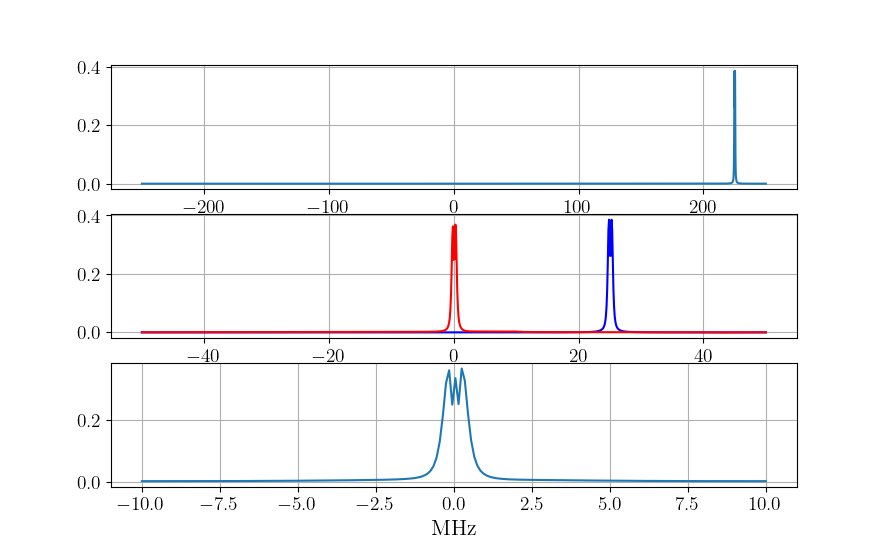
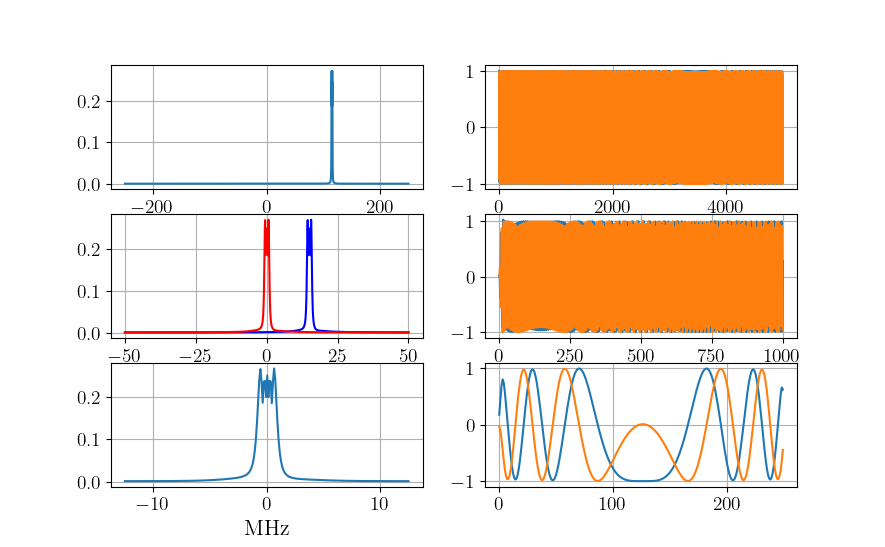
sols lab2

diff --git a/Module 0/lab2.md b/Module 0/lab2.md
@@ -194,7 +194,7 @@ For a discrete-time signal $x[n]$, the power is similarly defined.
 For non-periodic sequences, the average power $P$ over all time is:
 $P = \lim_{N \to \infty} \frac{1}{2N + 1} \sum_{n=-N}^{N} |x[n]|^2$
 
-For periodic sequences with period \( N_0 \), the average power $P$ is:
+For periodic sequences with period $N_0$, the average power $P$ is:
 $P = \frac{1}{N_0} \sum_{n=0}^{N_0-1} |x[n]|^2$
 
 Where:
@@ -366,9 +366,9 @@ and filter signals by invoking the method ```mybutterfilter.filter_signal(x)```.
 
 * RF Sampling Frequency in Hz - 500 MHz
 * Intermediate Frequency (IF) Sampling Frequency in Hz - 100 MHz
-* Baseband (BB) Sampling Frequency in Hz - 20 MHz
-* RF Center Frequency in Hz - 150 MHz
-* RF Bandwidth in Hz - 20 MHz
+* Baseband (BB) Sampling Frequency in Hz - 25 MHz
+* RF Center Frequency in Hz - 115 MHz
+* RF Bandwidth in Hz - 10 MHz
 
 Your class should include a function called ```__init__``` that receives args 
 
@@ -380,14 +380,14 @@ Your class should include a function called ```__init__``` that receives args
 
 and assigns them to object attributes, for example, ```self.fc_rf = rf_center_frequency_hz```.  Your ```__init__``` function should also initialize three filters 
 
-* Butterworth front end wideband bandpass reject filter order 2 with limits 210 MHz and 220 MHz (covers the RF bandwidth)
-* Chebyshev (use ```scipy.signal.cheby1```) low pass order 5 with ripple factor 2 and cutoff 25 MHz
+* Butterworth front end wideband bandpass reject filter order 2 with limits 110 MHz and 120 MHz (covers the RF bandwidth)
+* Chebyshev (use ```scipy.signal.cheby1```) low pass order 5 with ripple factor 2 and cutoff 20 MHz
 * FIR (use ```scipy.signal.firwin```) with 31 taps and cutoff frequency of 1 MHz
 
 Your object, ```Receiver```, should finally include a method for processing an incoming signal using components you've defined, for example
 
 ```python
-def process_signal(self,x):
+def process_signal(self,wf_object,x):
     ### FOR PLOT PROCESSING ONLY ##########################
     fig,axes = plt.subplots(3,2)
     freq = np.linspace(-self.Fs_rf/2,self.Fs_rf/2,len(x))
@@ -420,7 +420,7 @@ def process_signal(self,x):
     #######################################################
     
     #Apply the FIR BB filter
-    #Downsample by a factor of 5
+    #Downsample by a factor of 4
     
     ### FOR PLOT PROCESSING ONLY ##########################
     freq = np.linspace(-self.Fs_bb/2,self.Fs_bb/2,len(x))
@@ -437,7 +437,13 @@ def affts(x): return np.abs(ffts(x))
 ```
 
 
-The downsample factor causes the original signal to alias the original RF center frequency to 15 MHz,  we use a 35 MHz cutoff in the Cheby1 filter to restrict the signal at IF.  The rest of the ```process_signal``` method should apply the Cheby1 IF filter, then multiply by a complex sinusoid at -15 MHz to downconvert to baseband.  Once at baseband, apply the FIR filter you defined and downsample by a factor of 5 once more to reach your BB sampling frequency.  This process models the RF front end of a receiver for conversion from analog to baseband.
+The downsample factor causes the original signal to alias the original RF center frequency to 15 MHz,  we use a 35 MHz cutoff in the Cheby1 filter to restrict the signal at IF.  The rest of the ```process_signal``` method should apply the Cheby1 IF filter, then multiply by a complex sinusoid at  the IF, which can be calculated by 
+
+```python
+self.fc_if = np.mod(rf_sampling_frequency_hz,if_sampling_frequency_hz)
+```
+
+MHz to downconvert to baseband.  Once at baseband, apply the FIR filter you defined and downsample by a factor of 4 to reach your BB sampling frequency.  This process models the RF front end of a receiver for conversion from analog to baseband.
 
 Write a test script to process the following LFM signal sampled at the RF receiver frequency, first instantiate an instance of your ```Receiver``` object, call it ```myreceiver``` or something that makes sense to you.
 
@@ -466,9 +472,9 @@ Create a new Python class called ```SinglePulseWaveform``` with that has the fol
 * Linear Frequency Modulation Excursion in Hz- 2 MHz
 * RF Sampling Frequency in Hz - 500 MHz
 * Intermediate Frequency (IF) Sampling Frequency in Hz - 100 MHz
-* Baseband (BB) Sampling Frequency in Hz - 20 MHz
-* RF Center Frequency in Hz - 150 MHz
-* RF Bandwidth in Hz - 20 MHz
+* Baseband (BB) Sampling Frequency in Hz - 25 MHz
+* RF Center Frequency in Hz - 115 MHz
+* RF Bandwidth in Hz - 10 MHz
 
 and accepts the following arguments:
 
@@ -522,7 +528,7 @@ self.mf_wf_bb = np.exp(1j * 2 * np.pi/self.Fs_bb * (np.cumsum(np.linspace(-lfm_e
 self.bb_filter = FIR(numtaps = 31, cutoff = lfm_excursion_hz/2, fs = self.Fs_bb)
 ```
 
-Create an instance of ```SinglePulseWaveform``` called ```mywf``` with the argument values listed above.  Use the function ```process_signal``` on ```mywf.wf_single_pw``` that you constructed in Problem 1 for the RF frontend.  Take output and apply your the matched filter to the output of ```process_signal``` using 
+Create an instance of ```SinglePulseWaveform``` called ```mywf``` with the argument values listed above.  Use the function ```process_signal``` on ```mywf.wf_single_pw``` that you constructed in Problem 1 for the RF frontend.  Apply your the matched filter to the output of ```process_signal``` using 
 
 ```python
 x = np.convolve(x,np.conj(self.mf_wf_bb), mode = 'same')
@@ -534,7 +540,7 @@ The output should look like
 
 # Problem 3
 
-Let's say we have a target out at 100 km, with our chosen $T_{\textnormal{PRI}} = 1000$ us we can detect a target, unambiguously, out to 
+Let's say we have a target out at 50 km, with our chosen $T_{\textnormal{PRI}} = 1000$ us we can detect a target, unambiguously, out to 
 
 $$R_\textnormal{ua} = cT_{\textnormal{PRI}}/2 = 150 \textnormal{km}$$
 
@@ -542,7 +548,7 @@ where $c = 3\times 10^8$ m/s is the speed of light in free space.  We can simula
 
 ```python
     #Calculate index of signal presence
-    d = 100000 #distance of target in meters
+    d = 50000 #distance of target in meters
     distance_samples_skin_return_m = np.arange(mywf.samples_per_cpi_rf) / self.radar.Fs_rf * 3e8/2
     print(f'Maximum Distance: {np.max(distance_samples_skin_return_m)}, Target Distance: {d}')
     min_range_sample_to_d = np.argmin(np.abs(distance_samples_skin_return_m-d))
@@ -551,3 +557,7 @@ where $c = 3\times 10^8$ m/s is the speed of light in free space.  We can simula
     x = x[:(wf_object.samples_per_cpi_rf-min_range_sample_to_d)]
     x = np.concatenate([np.zeros(wf_object.samples_per_cpi_rf-len(x)) + 0.0j,x])
 ```
+
+Process ```x``` in the above snippet using your ```process_signal``` function constructed in Problem 1, then apply your matched filter from the ```SinglePulseWaveform``` instance you created, ```mywf```.  The output should look like the following.  
+
+![Alt text](../figs/mftest.png?raw=true)
